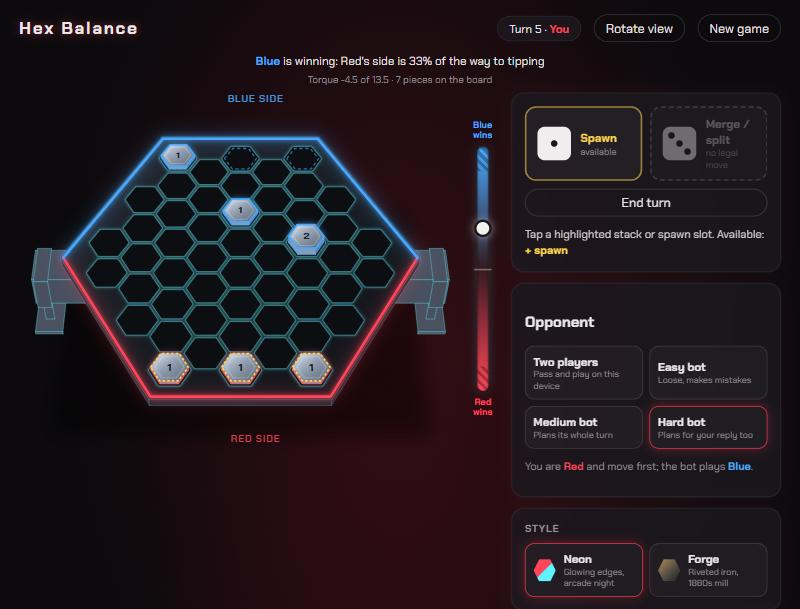
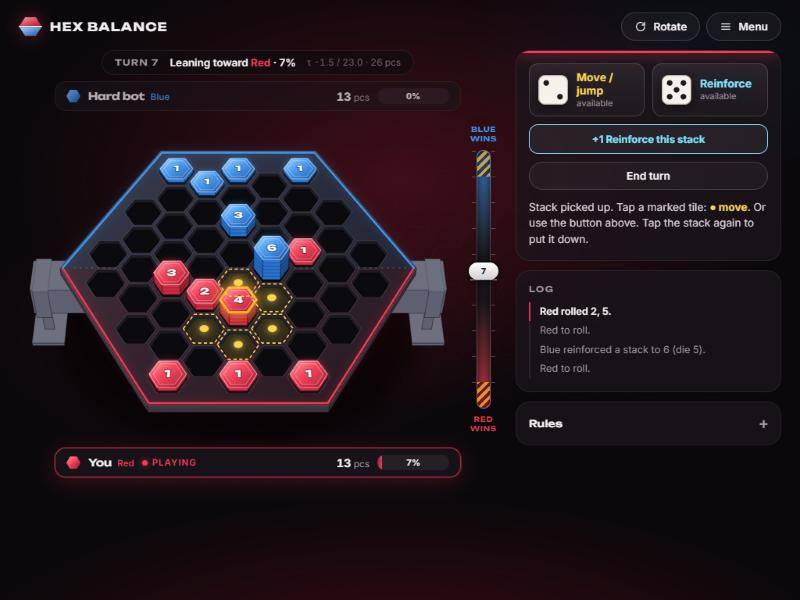
README: visual redo notes, before and after screenshots; larger piece numbers

diff --git a/README.md b/README.md
@@ -4,7 +4,17 @@
 
 **Live:** https://hex-balance.vercel.app
 
-![Hex Balance against the hard bot: the hexagonal plate on its pivot, the balance meter and the dice panel](docs/screenshot.jpg)
+![Hex Balance against the hard bot: the hexagonal plate on its pivot, a picked-up stack with its moves marked, the balance gauge and the dice panel](docs/screenshot.jpg)
+
+| Title | Phone |
+| --- | --- |
+| ![The start menu](docs/after-title.jpg) | ![The game at phone width, with the dice panel pinned to the bottom](docs/after-phone.jpg) |
+
+The look was redone on 2026-11-20. Before:
+
+| Game, before | Title, before |
+| --- | --- |
+| ![The earlier Neon style: grey pieces with thin coloured outlines](docs/before-game.jpg) | ![The earlier title screen](docs/before-title.jpg) |
 
 Zach Shirley and a best friend designed and built Hex Balance as a physical game in high school, and Zach rebuilt it as a web game in a couple of days with an AI coding agent. The original board was a hexagonal steel plate resting on a square pipe across its middle. Each player owns the half on their side of the pipe, and you roll dice to add, move, merge and knock over stacks of steel pieces. Weight far from the pipe counts more. If the plate tips toward you, you lose. "Hex Balance" is a working title, because nobody remembers what the original was called.
 
@@ -21,7 +31,6 @@ Zach Shirley and a best friend designed and built Hex Balance as a physical game
 - Tap a highlighted stack to pick it up and see where it can go, or tap a spawn slot to spawn. The meter beside the board shows how close each side is to tipping, and hovering a move previews where the meter would land. Dice with no legal move are skipped automatically.
 The game opens on a start menu. **Start game** leads to a setup screen with these choices:
 - **Opponent:** two players on one device, or an Easy, Medium or Hard bot. Against a bot you play Red and move first.
-- **Style:** Neon (default) or Forge.
 - **Rules and experiments:**
   - plate mass and starting pieces;
   - forced moves;
@@ -75,6 +84,12 @@ Hosted on Vercel at https://hex-balance.vercel.app. Pushes to `main` on GitHub (
 - the online room in two tabs, locally and on the live site;
 - the phone-width layout, in a 375 px emulated viewport.
 
+**Re-checked after the 2026-11-20 visual redo** (locally, with no console errors):
+- a game against the Hard bot played by tapping the board, through to the bot's win and the result card;
+- a hot-seat game through to a tip-over and the result card;
+- an online room in two tabs: both sides connected, the host's turn passed and the guest rolled;
+- the title, setup and game screens at desktop width and at 375 px.
+
 **Not tested:**
 - online play between two different home networks;
 - real phones and tablets (only emulated);
@@ -86,7 +101,6 @@ Hosted on Vercel at https://hex-balance.vercel.app. Pushes to `main` on GitHub (
 - The rules are a best-effort reconstruction. Die 4 (strike) is a guess, and the movement, spawning and starting-piece details are assumptions (see the table below).
 - **Online play** has no accounts and no server of its own. It uses PeerJS's free public servers, so it depends on their uptime. The host's tab must stay open, and the guest has to trust the host's dice.
 - **The bots** play Blue only. They are tuned against each other, not against people. On big combo turns they think for up to about 2 seconds.
-- Some chunks of the production bundle are over 500 kB. The archived 3D style (below) accounts for most of that, and it only loads if that style is enabled.
 
 ## How it was built
 
@@ -112,7 +126,7 @@ From there, the game grew through rounds of Zach playing it and giving direction
 - shake as the plate nears tipping;
 - combos as a core rule, and merge/split on the 3;
 - the experiments;
-- two visual styles;
+- two visual styles, later replaced by a single look (below);
 - the single-player bots.
 
 **Locked rules (2026-10-15):**
@@ -139,33 +153,41 @@ Passing on a die that still has a legal move also costs the bot something, becau
 
 Easy plays one die at a time and is often random. Medium plans its whole turn. Hard also checks every possible opponent reply roll. The bots run in a Web Worker so the board keeps animating.
 
-**Archived style:** a 3D "Foundry" arena (Three.js) was built and then archived on 2026-10-19. Its code is kept in `src/scene3d.ts` and at git tag `foundry-archive`.
+**Visual redo (2026-11-20):** Zach asked for the visuals to be redone and left the style to the agent. The game now has one look, "crimson steel":
+- **Pieces** are in their owner's colour, so you can tell whose stack is whose at a glance. Before, they were grey with a thin coloured outline.
+- **The plate** has recessed cells, a faint tint on each player's half, and a dotted line scribed along the pivot.
+- **The stand** is solid steel with a pool of light on the floor under it.
+- **The gauge** shows the percentage on its marker, with hatched bands for the last 20% before tipping.
+- **Player chips** above and below the board show who is to move, their piece count and how close their side is to tipping.
+- **Callouts** stamp combos, breakthroughs and overheats over the board.
+- **Amber** is kept for "your move": the main button on each screen and the stacks you can pick up.
+- **Type** is Unbounded for display and Inter for text.
+
+The earlier Neon and Forge styles were retired in the redo, along with the Style picker. The 3D "Foundry" arena (Three.js), archived on 2026-10-19, was removed from the code at the same time. All three remain in the history at git tag `foundry-archive`.
 
 ## Code
 
 - `src/board.ts`: board geometry, neighbours, spawn slots, lever arms
 - `src/rules.ts`: game state, legal actions, dice, combos, balance and tipping (pure, no DOM)
-- `src/view3d.ts`: 2.5D projection of the plate, pipe and stacks
+- `src/view3d.ts`: 2.5D projection of the plate, pipe and stacks into SVG
 - `src/bot.ts`, `src/botWorker.ts`: single-player bots and the worker they run in
 - `src/net.ts`: PeerJS host/guest sessions
 - `src/main.ts`, `src/style.css`: UI, dice panel, balance meter, animation, panels
-- `src/scene3d.ts`: archived 3D style
 
 ## AI assistance and Zach's role
 
 The code was written with an AI coding agent (Claude Code). Zach's part:
 - He supplied the original game, the board photo and the rule recollections.
-- He made the design calls: the pipe width, combos as core, which experiments to try, the visual direction, and archiving the 3D style.
+- He made the design calls: the pipe width, combos as core, which experiments to try, the early visual direction, and archiving the 3D style. For the 2026-11-20 visual redo he set the brief (make it look better, keep the board and animations that work) and left the art direction to the agent.
 - He playtested and reported problems. The breaking point felt inconsistent, the board vanished, and the Medium bot never spawned and lost to a tall-stack rush. Each report led to a fix.
 
 The agent did the implementation, the tests, the simulations and the bot tuning.
 
 ## Attribution
 
-- Fonts are loaded from Google Fonts, under their open licenses.
+- Fonts: Unbounded and Inter, loaded from Google Fonts, both under the SIL Open Font License.
 - Libraries:
   - PeerJS (MIT) for online play;
-  - Three.js (MIT) for the archived 3D style;
   - Vite, TypeScript and Vitest for building and testing.
 - No third-party art assets are used.
 
